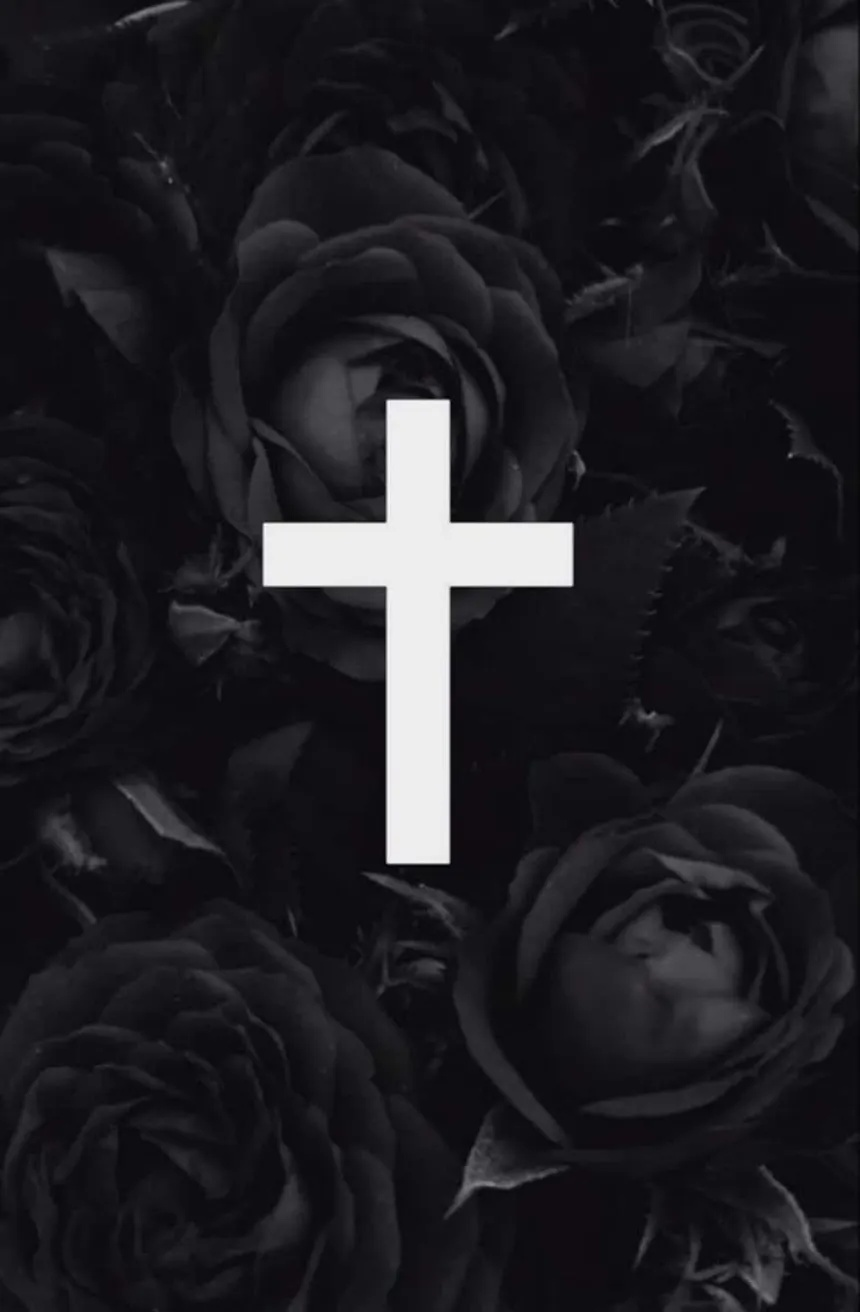
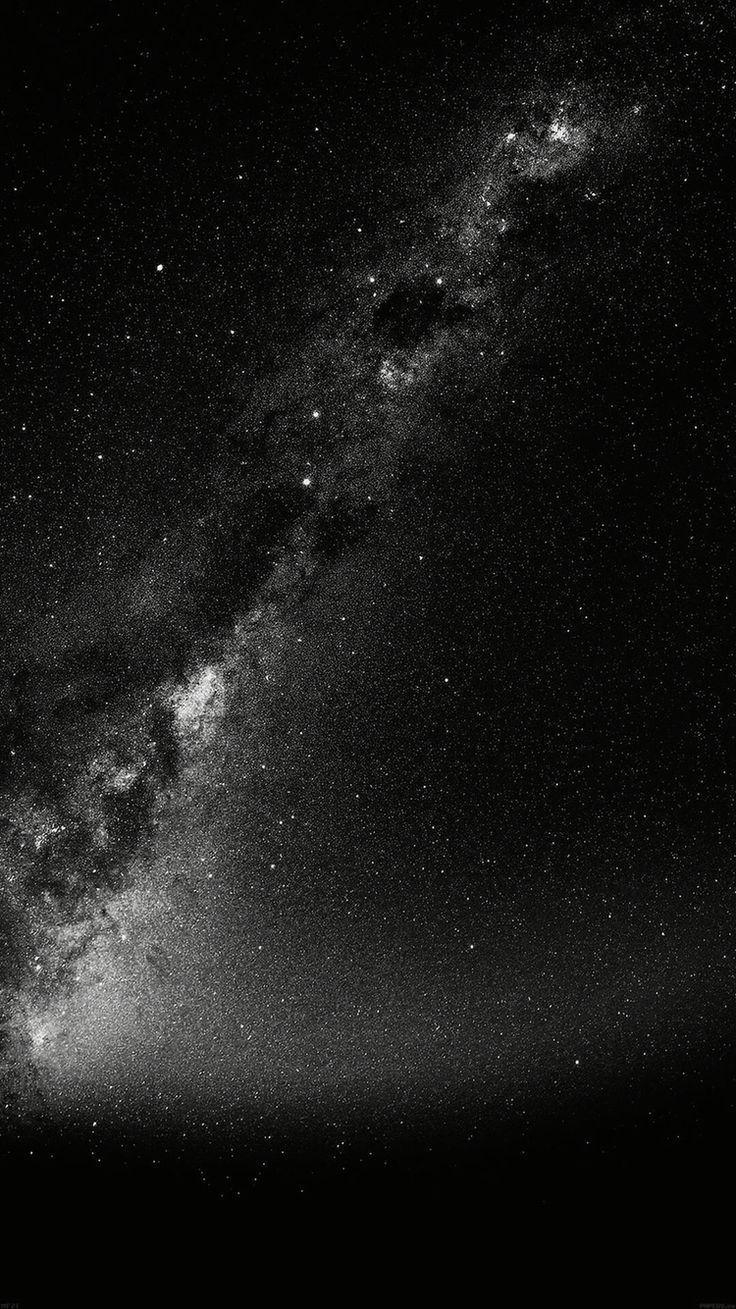
Update hymn app design with new BGs

diff --git a/src/App.css b/src/App.css
@@ -25,26 +25,32 @@
   --gold: #8b6428;
   --focus: #347a60;
   --shadow: 0 14px 34px rgb(26 57 43 / 7%);
+  --glass-surface: rgb(255 255 255 / 44%);
+  --glass-shadow: 0 16px 42px rgb(37 47 59 / 14%), 0 0 26px rgb(255 255 255 / 12%);
   --page-image: url("/background-light.jpg");
-  --image-wash: rgb(242 246 242 / 80%);
+  --page-image-position: center;
+  --page-image-overlay: rgb(255 255 255 / 24%);
 }
 
 .dark {
-  --page: #101a16;
-  --surface: #18241e;
-  --surface-raised: #202e27;
-  --ink: #edf4ef;
-  --muted: #adbbb2;
-  --line: #33453a;
-  --accent: #9ac9aa;
-  --accent-strong: #b8ddc4;
-  --accent-soft: #263e31;
-  --accent-ink: #e0f0e5;
-  --gold: #dfbc78;
-  --focus: #abd9b9;
-  --shadow: 0 16px 36px rgb(0 0 0 / 22%);
+  --page: #11100f;
+  --surface: #1b1917;
+  --surface-raised: #26221e;
+  --ink: #f4efe7;
+  --muted: #b8aea1;
+  --line: #40382f;
+  --accent: #d8b779;
+  --accent-strong: #eed39c;
+  --accent-soft: #3a3022;
+  --accent-ink: #241a0b;
+  --gold: #e5bd75;
+  --focus: #e3c27d;
+  --shadow: 0 16px 36px rgb(0 0 0 / 32%);
+  --glass-surface: rgb(21 20 24 / 50%);
+  --glass-shadow: 0 16px 42px rgb(0 0 0 / 32%), 0 0 28px rgb(216 183 121 / 5%);
   --page-image: url("/background-dark.jpg");
-  --image-wash: rgb(8 12 14 / 48%);
+  --page-image-position: center;
+  --page-image-overlay: rgb(8 10 16 / 58%);
   color-scheme: dark;
 }
 
@@ -106,13 +112,24 @@ input:focus-visible {
   position: fixed;
   z-index: -1;
   inset: 0;
-  background-image: linear-gradient(var(--image-wash), var(--image-wash)),
+  background-image: linear-gradient(var(--page-image-overlay), var(--page-image-overlay)),
     var(--page-image);
-  background-position: center;
+  background-position: var(--page-image-position);
   background-repeat: no-repeat;
   background-size: cover;
   content: "";
   pointer-events: none;
+}
+
+@media (max-width: 600px) {
+  :root {
+    /* Keep the floral detail visible on narrow screens. */
+    --page-image-position: right center;
+  }
+
+  .dark {
+    --page-image-position: right center;
+  }
 }
 
 .app-shell.with-install-banner .page-shell {
@@ -151,31 +168,26 @@ input:focus-visible {
   min-width: 0;
 }
 
-.brand-mark {
-  display: grid;
-  width: 2.8rem;
-  height: 2.8rem;
-  flex: 0 0 auto;
-  place-items: center;
-  border-radius: 0.9rem;
-  color: #fff;
-  background: #28624d;
-}
-
-.dark .brand-mark {
-  color: #13251b;
-  background: #9ac9aa;
-}
-
 .brand-copy {
   min-width: 0;
 }
 
 .brand-name {
   margin: 0;
-  font-size: 1rem;
-  font-weight: 700;
-  letter-spacing: -0.02em;
+  font-family: "Palatino Linotype", "Book Antiqua", "URW Chancery L", Georgia, serif;
+  font-size: clamp(1.45rem, 5vw, 1.85rem);
+  font-style: italic;
+  font-weight: 400;
+  font-variant-ligatures: common-ligatures;
+  letter-spacing: -0.035em;
+  line-height: 1.1;
+}
+
+.brand-initial {
+  display: inline-block;
+  font-size: 1.22em;
+  font-weight: 500;
+  letter-spacing: -0.055em;
 }
 
 .icon-button {
@@ -306,15 +318,20 @@ input:focus-visible {
 }
 
 .hymn-card {
+  position: relative;
+  overflow: visible;
   display: grid;
   min-height: 5.35rem;
   grid-template-columns: 2.9rem minmax(0, 1fr) 1.25rem;
   align-items: center;
   gap: 0.85rem;
   padding: 0.9rem 1rem;
-  border: 1px solid var(--line);
+  border: 0;
   border-radius: 1rem;
-  background: var(--surface);
+  background: var(--glass-surface);
+  box-shadow: var(--glass-shadow);
+  -webkit-backdrop-filter: blur(18px) saturate(145%);
+  backdrop-filter: blur(18px) saturate(145%);
   color: inherit;
   text-decoration: none;
   transition: border-color 150ms ease, background-color 150ms ease,
@@ -322,8 +339,7 @@ input:focus-visible {
 }
 
 .hymn-card:hover {
-  border-color: color-mix(in srgb, var(--accent) 55%, var(--line));
-  background: var(--surface-raised);
+  background: color-mix(in srgb, var(--glass-surface) 84%, var(--surface-raised));
 }
 
 .hymn-card:active {
@@ -583,16 +599,22 @@ input:focus-visible {
 }
 
 .lyrics-sheet {
+  display: grid;
+  gap: 0.85rem;
   margin-top: 0.5rem;
-  padding: clamp(1.25rem, 5vw, 2.5rem);
-  border: 1px solid var(--line);
-  border-radius: 1.25rem;
-  background: var(--surface);
-  box-shadow: var(--shadow);
 }
 
 .lyrics-text {
+  position: relative;
+  overflow: visible;
   margin: 0;
+  padding: clamp(1rem, 4vw, 1.5rem);
+  border: 0;
+  border-radius: 1.15rem;
+  background: var(--glass-surface);
+  box-shadow: var(--glass-shadow);
+  -webkit-backdrop-filter: blur(18px) saturate(145%);
+  backdrop-filter: blur(18px) saturate(145%);
   color: var(--ink);
   font-family: Georgia, "Times New Roman", serif;
   font-size: 1.125rem;

diff --git a/src/pages/HymnDetail.tsx b/src/pages/HymnDetail.tsx
@@ -39,6 +39,7 @@ function HymnDetail({ dark, setDark }: HymnDetailProps) {
   }
 
   const displayKey = customKey || hymn.key;
+  const stanzas = hymn.lyrics.split(/\r?\n\s*\r?\n/).filter(Boolean);
 
   const saveKey = (event: FormEvent<HTMLFormElement>) => {
     event.preventDefault();
@@ -142,13 +143,17 @@ function HymnDetail({ dark, setDark }: HymnDetailProps) {
         </div>
       </section>
 
-      <article
-        className="lyrics-sheet"
-        aria-label={`Lyrics for ${hymn.title}`}
-      >
-        <p className="lyrics-text" lang="kha" style={{ fontSize: `${fontSize}px` }}>
-          {hymn.lyrics}
-        </p>
+      <article className="lyrics-sheet" aria-label={`Lyrics for ${hymn.title}`}>
+        {stanzas.map((stanza, index) => (
+          <p
+            className="lyrics-text"
+            key={`${hymn.id}-stanza-${index}`}
+            lang="kha"
+            style={{ fontSize: `${fontSize}px` }}
+          >
+            {stanza}
+          </p>
+        ))}
       </article>
 
     </main>

diff --git a/src/pages/Home.tsx b/src/pages/Home.tsx
@@ -1,6 +1,6 @@
 import { useState } from "react";
 import { Link } from "react-router-dom";
-import { BookOpen, ChevronRight, Search, X } from "lucide-react";
+import { ChevronRight, Search, X } from "lucide-react";
 import hymns from "../data/hymns.json";
 import ThemeToggle from "../components/ThemeToggle";
 
@@ -22,11 +22,11 @@ function Home({ dark, setDark }: HomeProps) {
     <main className="page-shell">
       <header className="app-header">
         <div className="brand-lockup">
-          <div className="brand-mark" aria-hidden="true">
-            <BookOpen size={22} strokeWidth={1.8} />
-          </div>
           <div className="brand-copy">
-            <p className="brand-name">Khasi Hymns</p>
+            <p className="brand-name">
+              <span className="brand-initial">K</span>hasi{" "}
+              <span className="brand-initial">H</span>ymns
+            </p>
           </div>
         </div>
         <ThemeToggle dark={dark} setDark={setDark} />

diff --git a/src/App.tsx b/src/App.tsx
@@ -35,7 +35,7 @@ function App() {
     localStorage.setItem("theme", dark ? "dark" : "light");
     document
       .querySelector('meta[name="theme-color"]')
-      ?.setAttribute("content", dark ? "#101a16" : "#f2f6f2");
+      ?.setAttribute("content", dark ? "#11100f" : "#f2f6f2");
   }, [dark]);
 
   const dismissInstall = () => {
